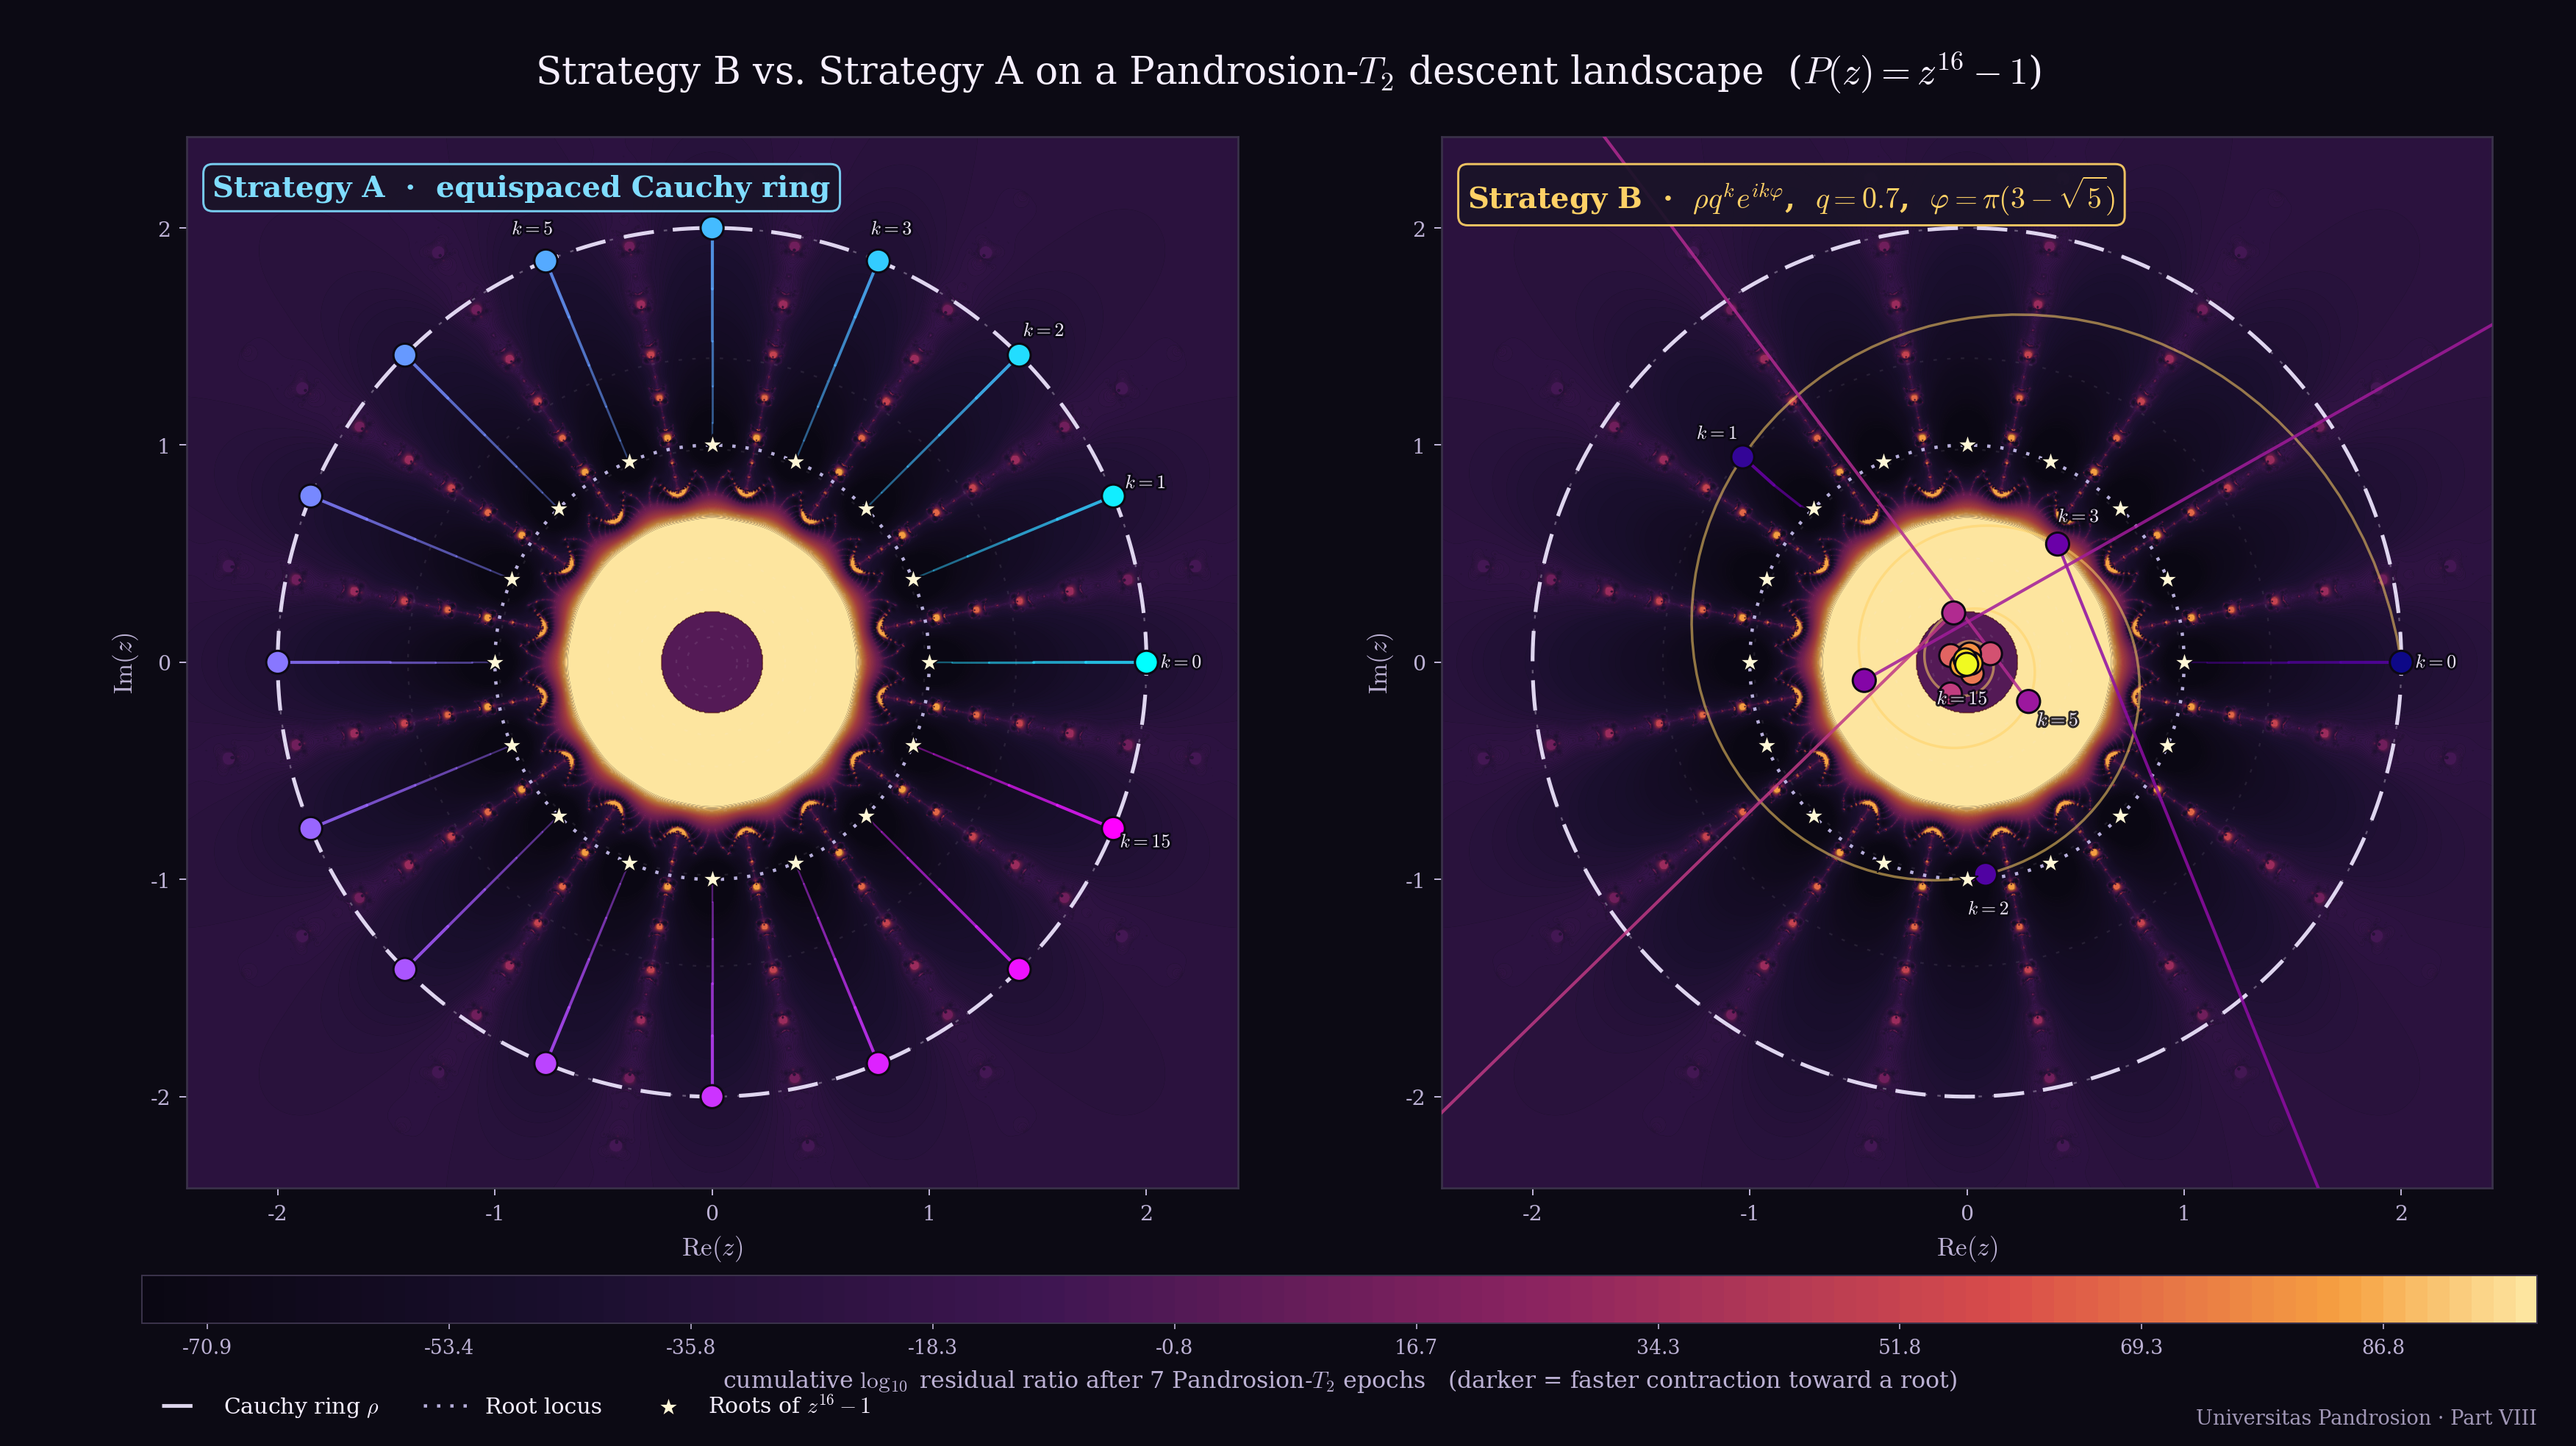
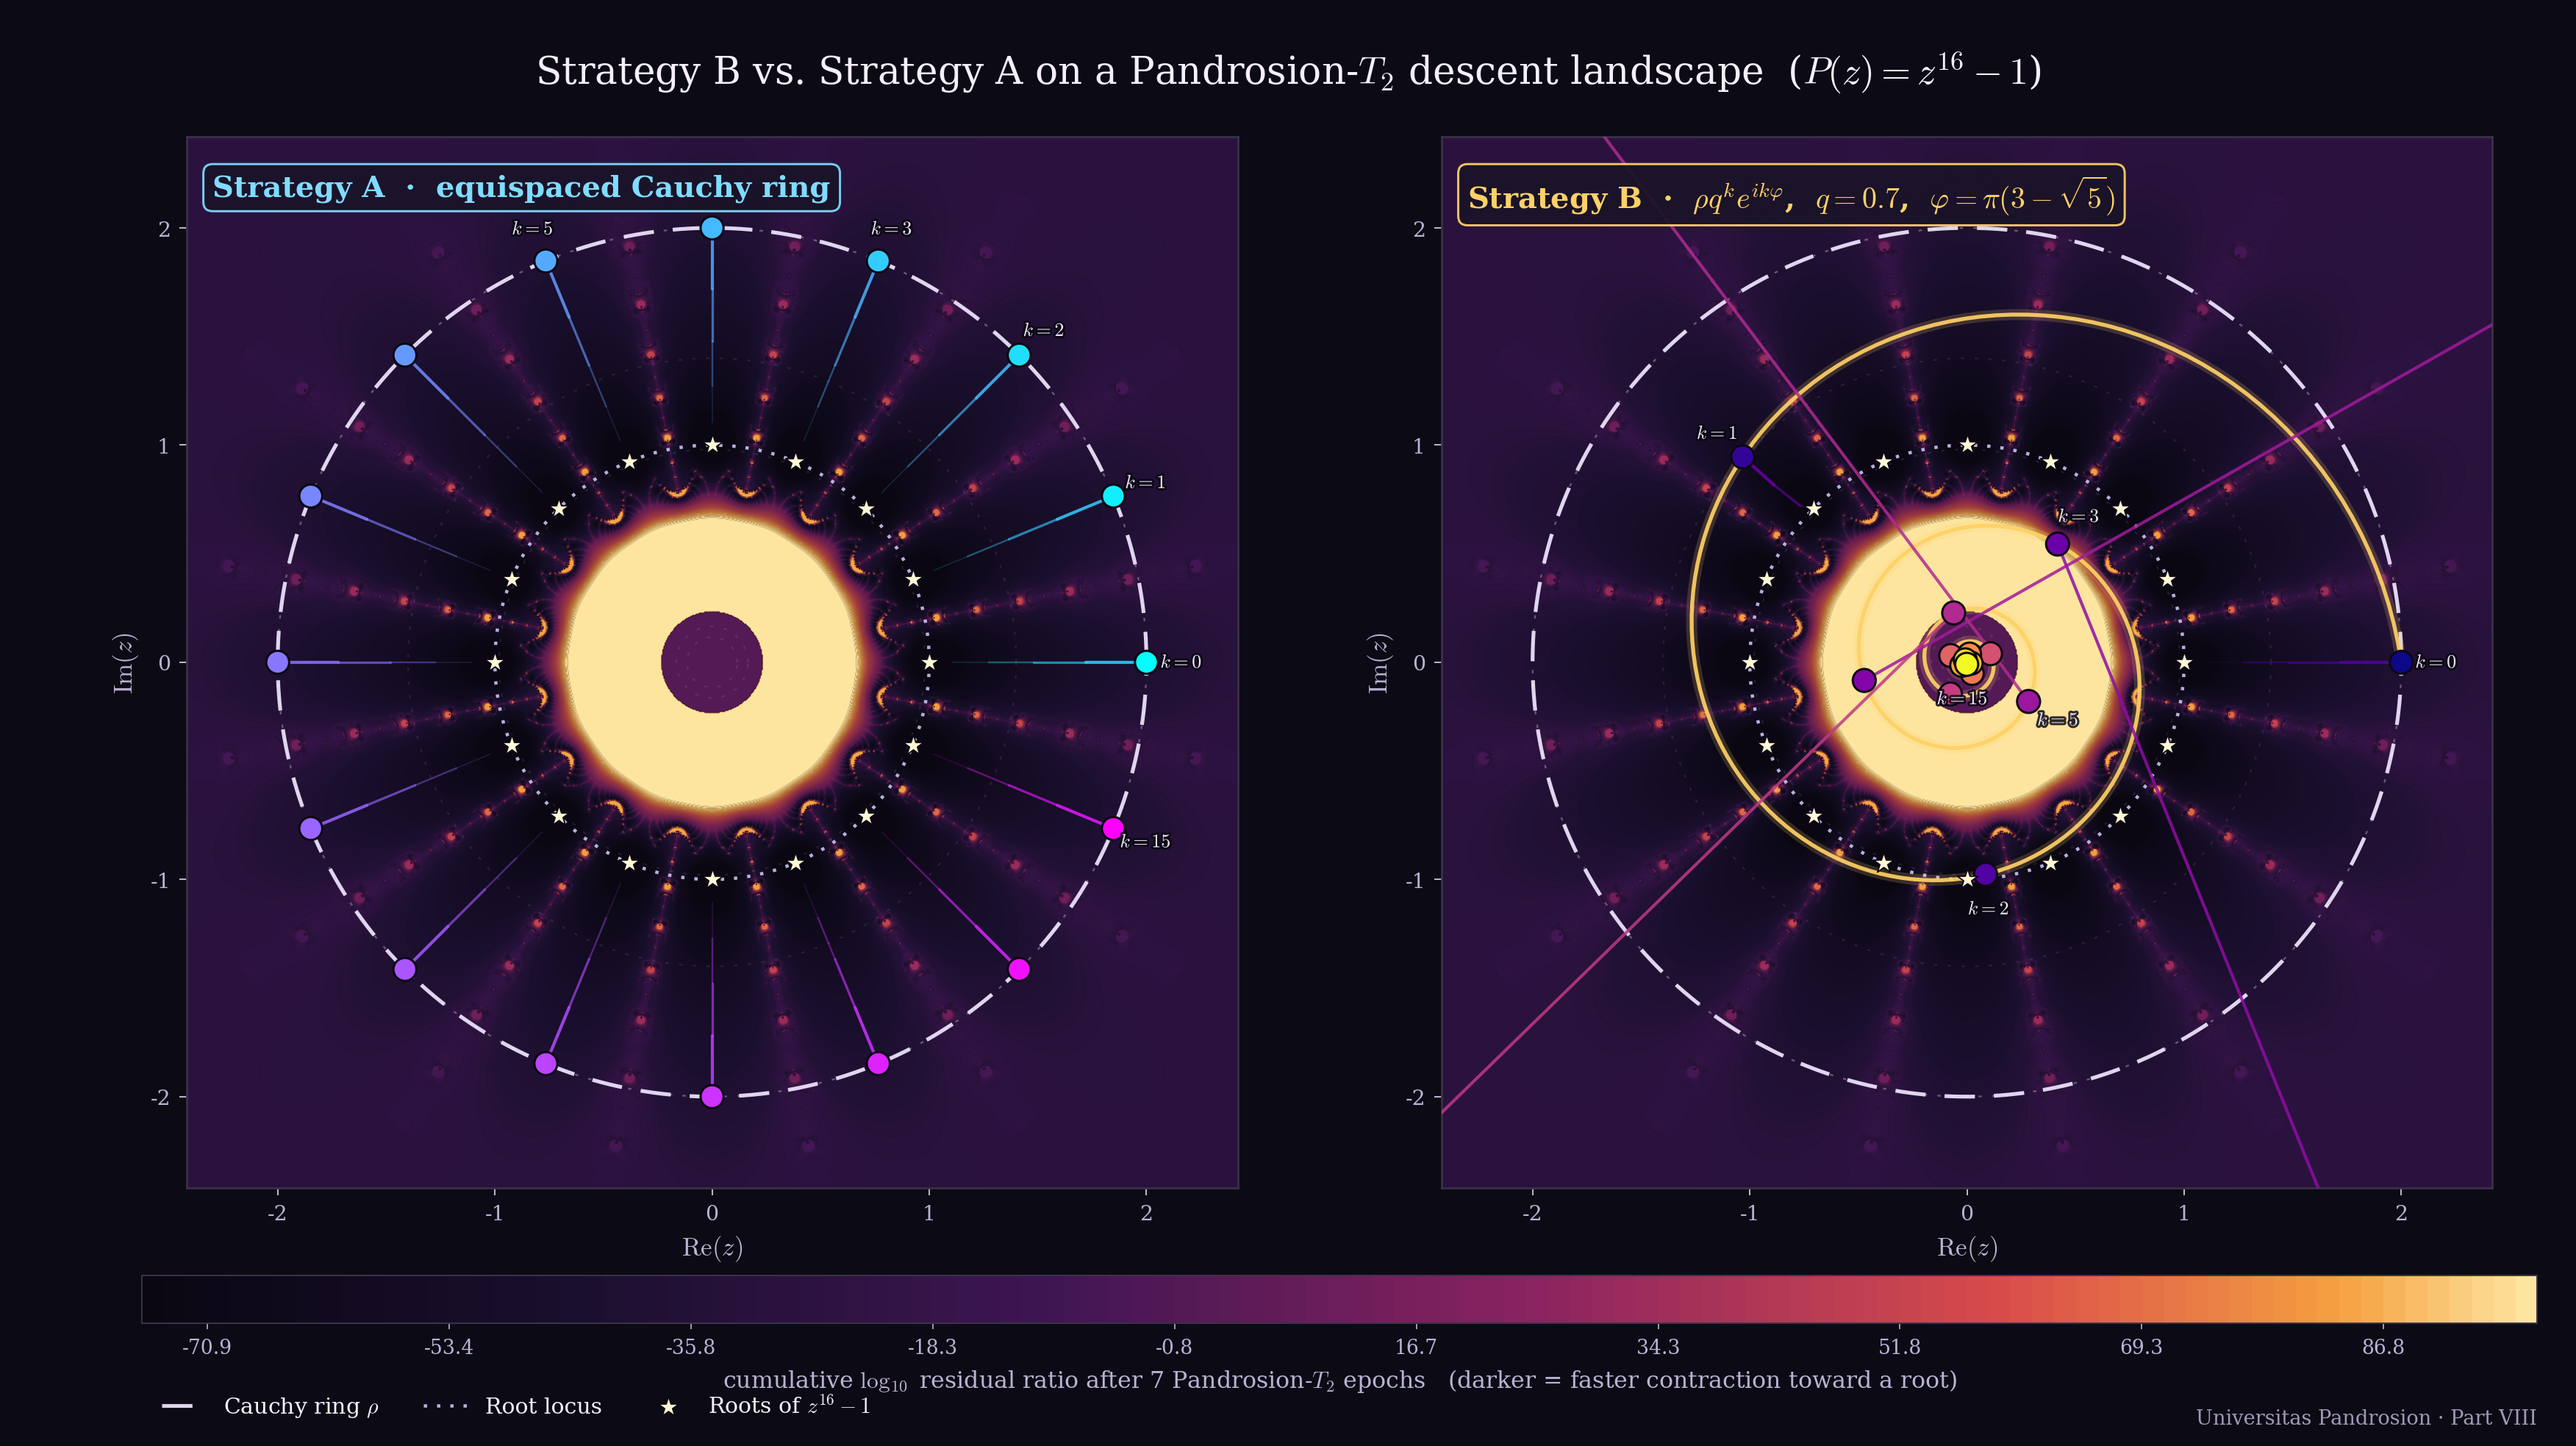
docs: update Pandrosion-T2 figure to show side-by-side strategy comparison with expanded caption

diff --git a/latex/8pandrosion_smale.tex b/latex/8pandrosion_smale.tex
@@ -71,12 +71,17 @@ The construction combines three classical ideas:
 
 \begin{figure}[htbp]
 \centering
-\includegraphics[width=0.96\textwidth]{figures/strategy_b_geometric_spiral.png}
-\caption{Strategy~B on a fixed-epoch Pandrosion-$T_2$ descent landscape for
-$P(z)=z^{16}-1$. The dashed circle is the Cauchy radius $\rho$, the dotted
-circle is the root locus, and the golden curve shows the starts
-$z_k=\rho q^k e^{ik\varphi}$ with $q=0.7$ and
-$\varphi=\pi(3-\sqrt5)$.}
+\includegraphics[width=\textwidth]{figures/strategy_b_geometric_spiral.png}
+\caption{Side-by-side comparison of the two start strategies on a
+fixed-epoch Pandrosion-$T_2$ descent landscape for $P(z)=z^{16}-1$
+(brighter background = faster contraction). \emph{Left:} Strategy~A
+(equispaced Cauchy ring). \emph{Right:} Strategy~B
+($z_k=\rho q^k e^{ik\varphi}$, $q=0.7$, $\varphi=\pi(3-\sqrt5)$);
+the golden curve traces the underlying geometric-decreasing spiral.
+In both panels the dashed white circle is the Cauchy radius $\rho$,
+the dotted circle is the root locus, the white stars mark the $16$
+roots of unity, and the coloured trails are the first few
+Pandrosion-$T_2$ epochs initiated from each start.}
 \label{fig:strategy-b-spiral}
 \end{figure}
 
